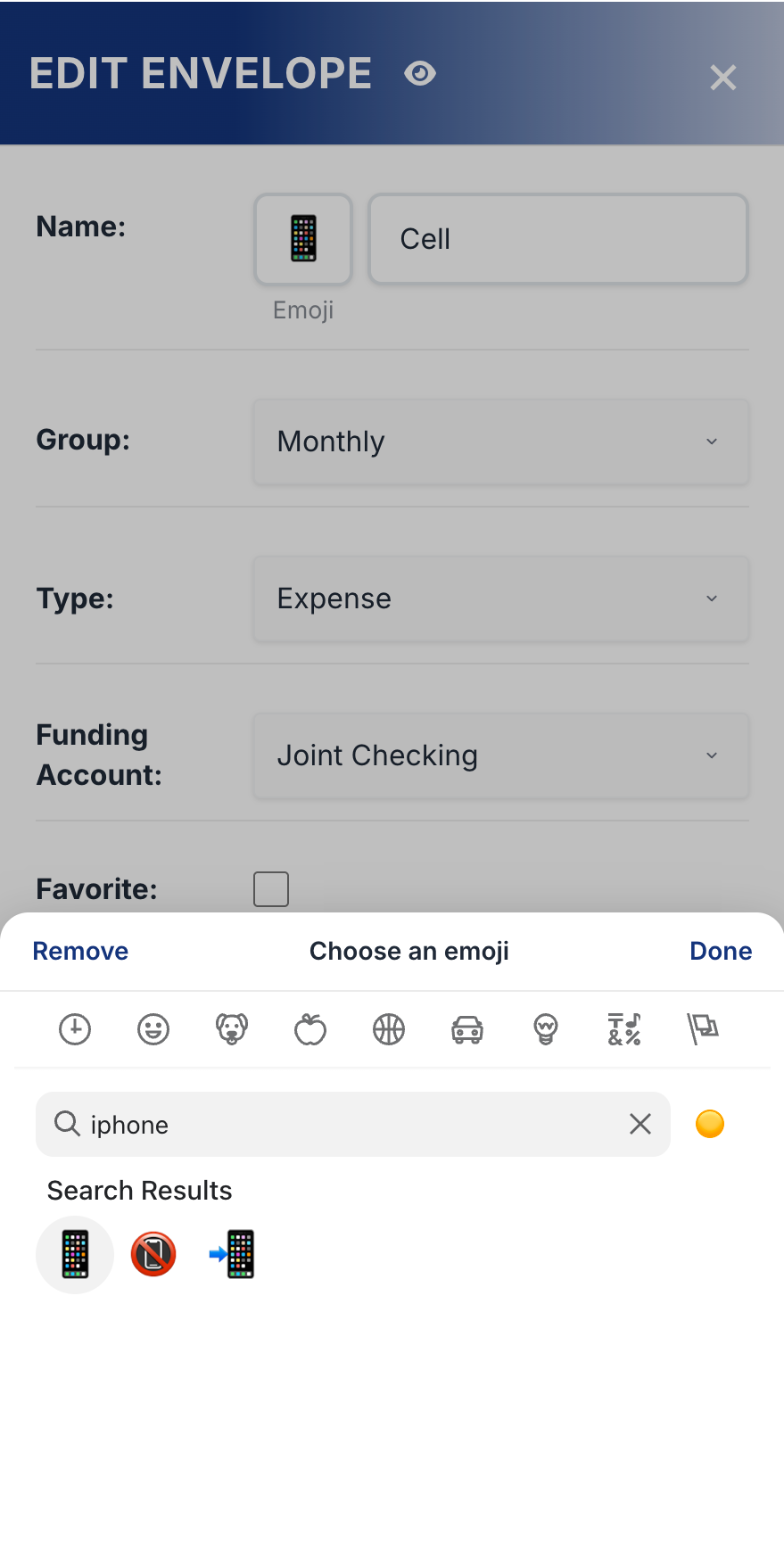
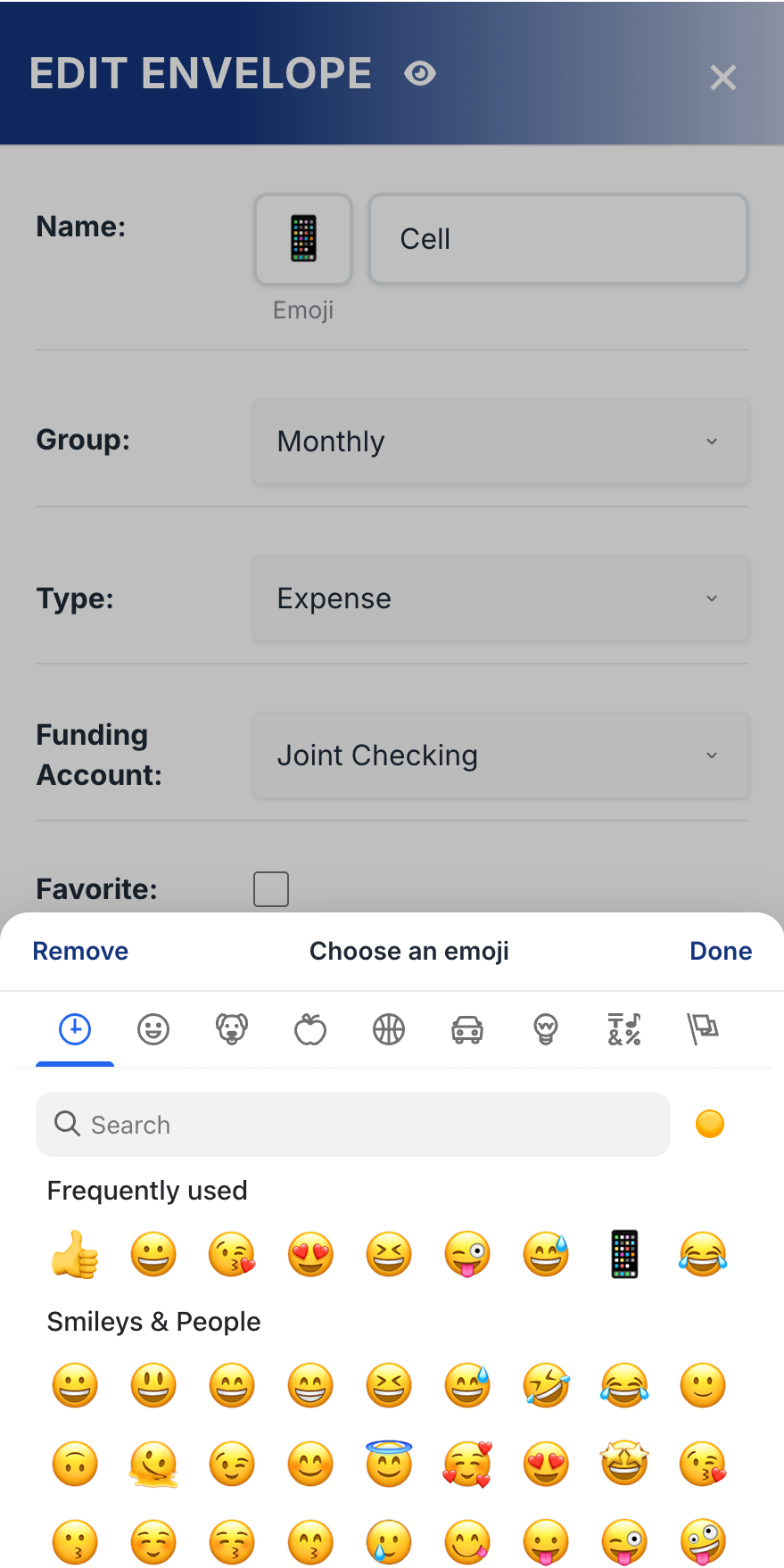
Docs: emoji picker screenshot showing the emoji grid

diff --git a/ue26/companion-envelopes.md b/ue26/companion-envelopes.md
@@ -56,7 +56,7 @@ The **Emoji** box sits to the left of the envelope's name, in both Edit Envelope
 
 To go back to the regular envelope icon, open the picker and tap **Remove**. **Done** closes it without changing anything.
 
-{% include figure class="phone-screenshot" image_path="/assets/images/companion-emoji-picker.png" alt="Edit Envelope for Cell with the emoji picker open at the bottom: Remove, Choose an emoji, Done, category icons, and a search for iphone showing phone emojis" caption="Searching for an emoji while editing an envelope" %}
+{% include figure class="phone-screenshot" image_path="/assets/images/companion-emoji-picker.png" alt="Edit Envelope for Cell with the emoji picker open at the bottom: Remove, Choose an emoji, Done, category icons, a Search box, Frequently used and Smileys and People emojis" caption="The emoji picker while editing an envelope" %}
 
 ---
 
